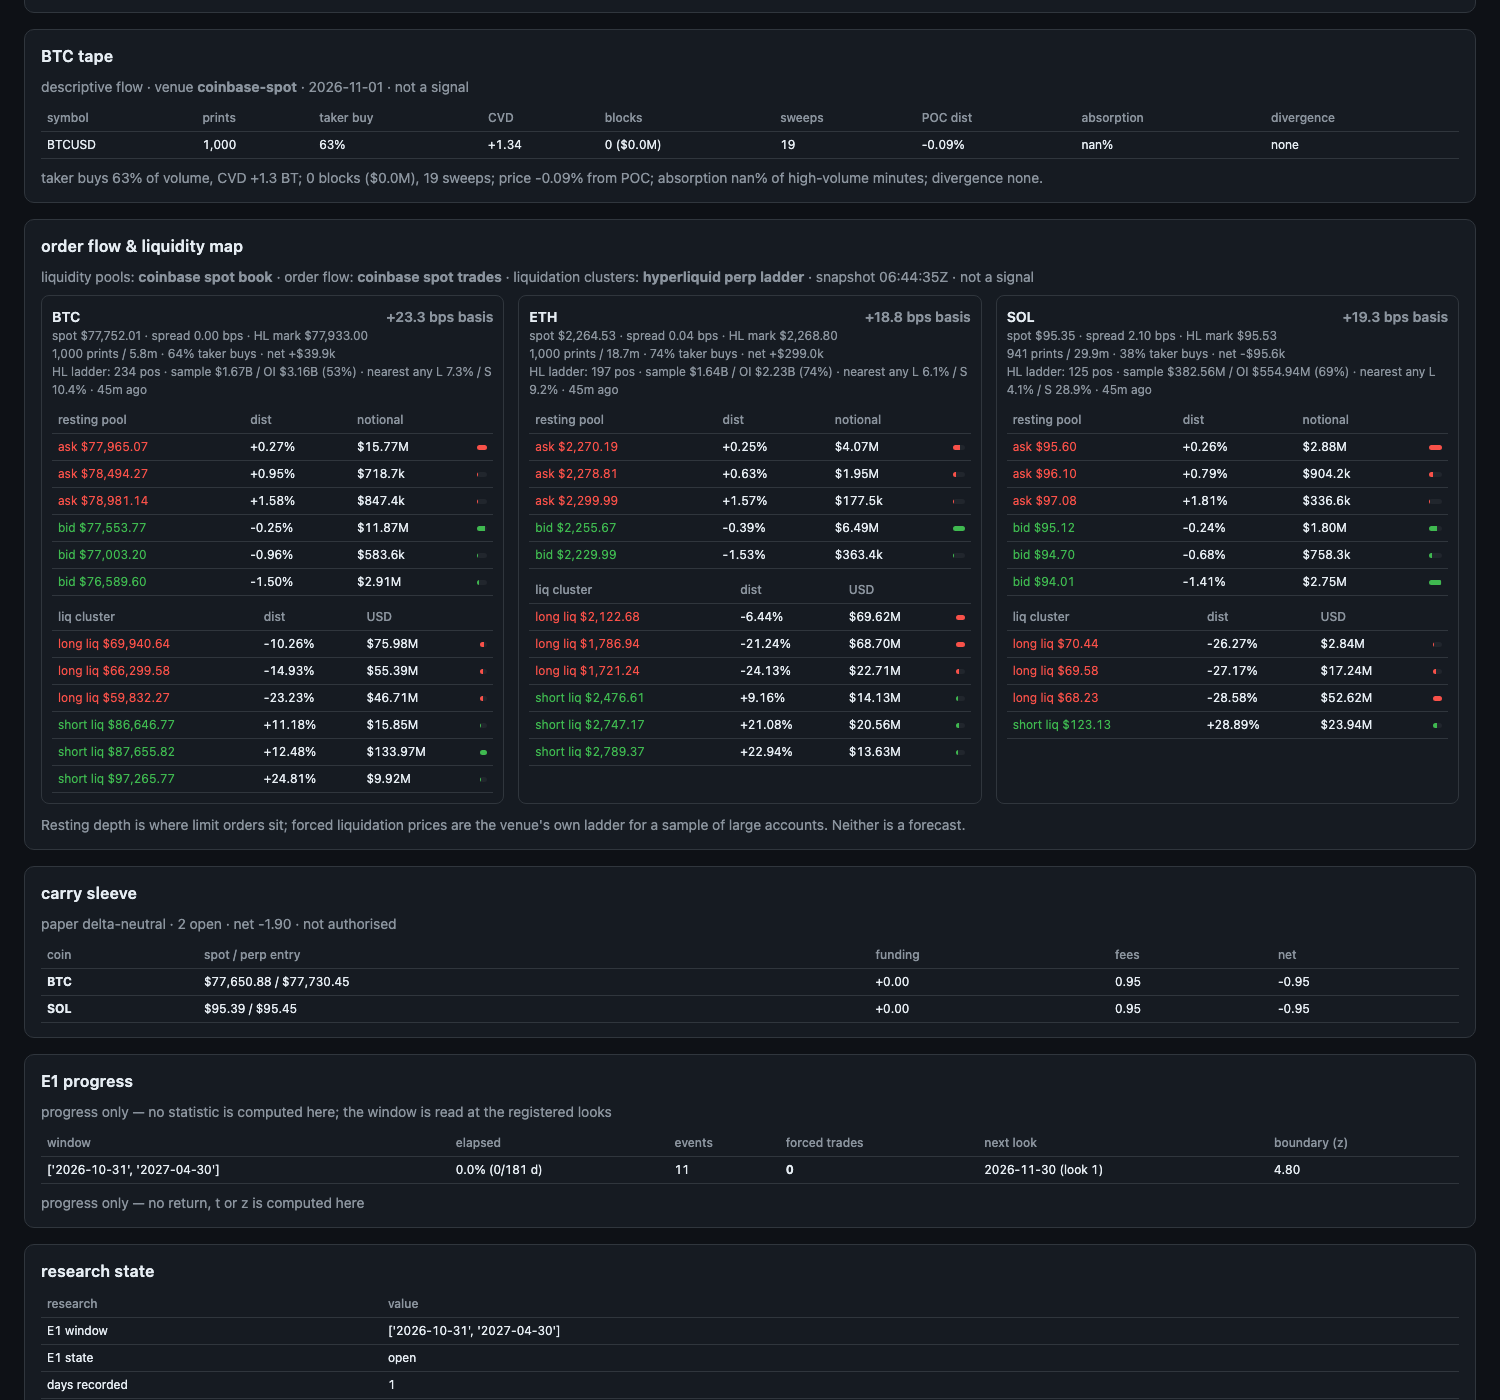
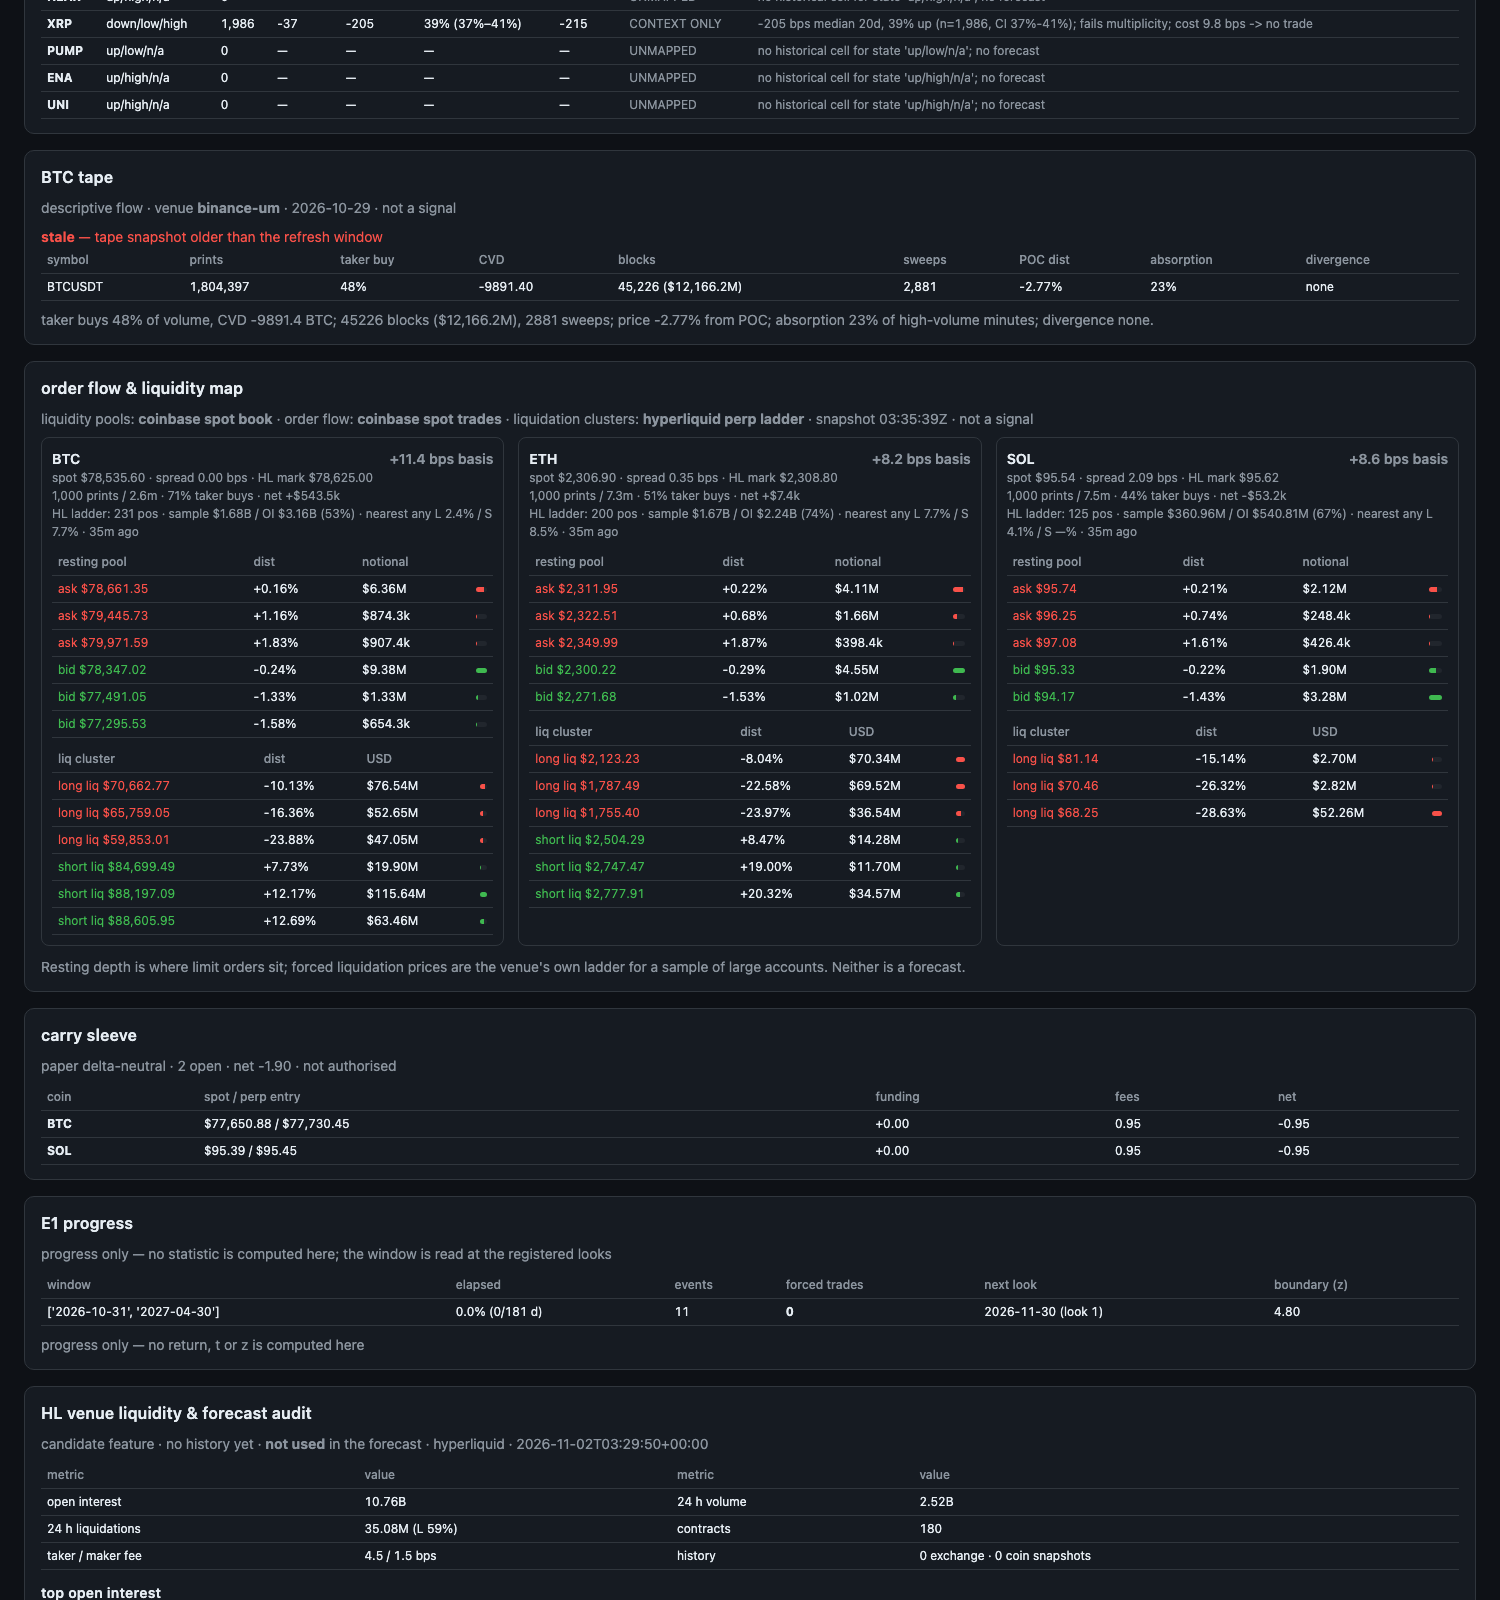
docs: refresh the liquidity-map evidence after the rebase
The rebased branch sits on 16eee49, where the dashboard gained the HL venue
liquidity and forecast-audit card. Re-capture before/after from the same frozen
snapshot at 1500 x 7600, update the suite count to 232, and pin the evidence note
to the new baseline.

diff --git a/README.md b/README.md
@@ -13,7 +13,7 @@ research documents are in [`reference/`](reference), and its 46 numbered tests a
 
 | | |
 |---|---|
-| tests | **216** green; `scripts/check.sh` also validates audit citations and the ledger |
+| tests | **232** green; `scripts/check.sh` also validates audit citations and the ledger |
 | paper loop | **running** (`io.espero2.paper`, 60 s): BTC/ETH/SOL, vol-target 2 %, 25 %/yr funding gate, $500 cap |
 | books | **void** — `sma` runs as `plumbing` under the window to 2026-12-31; never read as evidence |
 | E1 | recording; **11 seed events, 0 forced trades**; window 2026-10-31 → 2027-04-30, 70 % power |
@@ -80,7 +80,7 @@ python -m espero2.cli run --coin BTC --once --allow-plumbing   # one paper cycle
 espero2/     ledger gate, paper engine, risk, dashboard, venue clients (HL testnet, Coinbase, Alpaca)
 agent/       tool catalog, sandboxed executor, briefing, smoke test — no trading tools
 research/    audit, replications, E1, tape/VPIN/maker studies, liquidity map, registrations, scorecard, data inventory
-tests/       216 tests, including those that assert a test is *refused*
+tests/       232 tests, including those that assert a test is *refused*
 scripts/     CI, health, sync, E1 refresh, launchd installers
 reference/   the original repository's research documents, verbatim (87 files)
 ```

diff --git a/research/LIQUIDITY_MAP.md b/research/LIQUIDITY_MAP.md
@@ -111,6 +111,6 @@ two hours. A missing local snapshot leaves the pools and flow in place and says 
 
 ## Dashboard evidence
 
-`research/screenshots/liquidity-map-before.png` and `-after.png` are 1500 × 1400 crops of the same
-frozen dashboard at a 1500 × 6800 viewport: baseline `ba687f3` (tape then carry sleeve) and this
+`research/screenshots/liquidity-map-before.png` and `-after.png` are 1500 × 1600 crops of the same
+frozen dashboard at a 1500 × 7600 viewport: baseline `16eee49` (tape then carry sleeve) and this
 branch (tape, then the map, then carry). The surrounding cards, data snapshot and theme are identical.

diff --git a/CHANGES.md b/CHANGES.md
@@ -67,6 +67,7 @@ at the top.
   keeps it clean and turns the E1 feed into a dated audit trail of exactly what the recorder saw.
 - **Scheduled**: appended to the sync chain after the progress step.
 - Verified by running it now: `e1 commit: no changes`, exit 0.
+
 ### 2026-11-01 · order flow & liquidity map (book pools, taker flow, exact HL ladder)
 
 - **`research/liquidity_map.py`**: three descriptive layers per market, one JSON snapshot. No signal,
